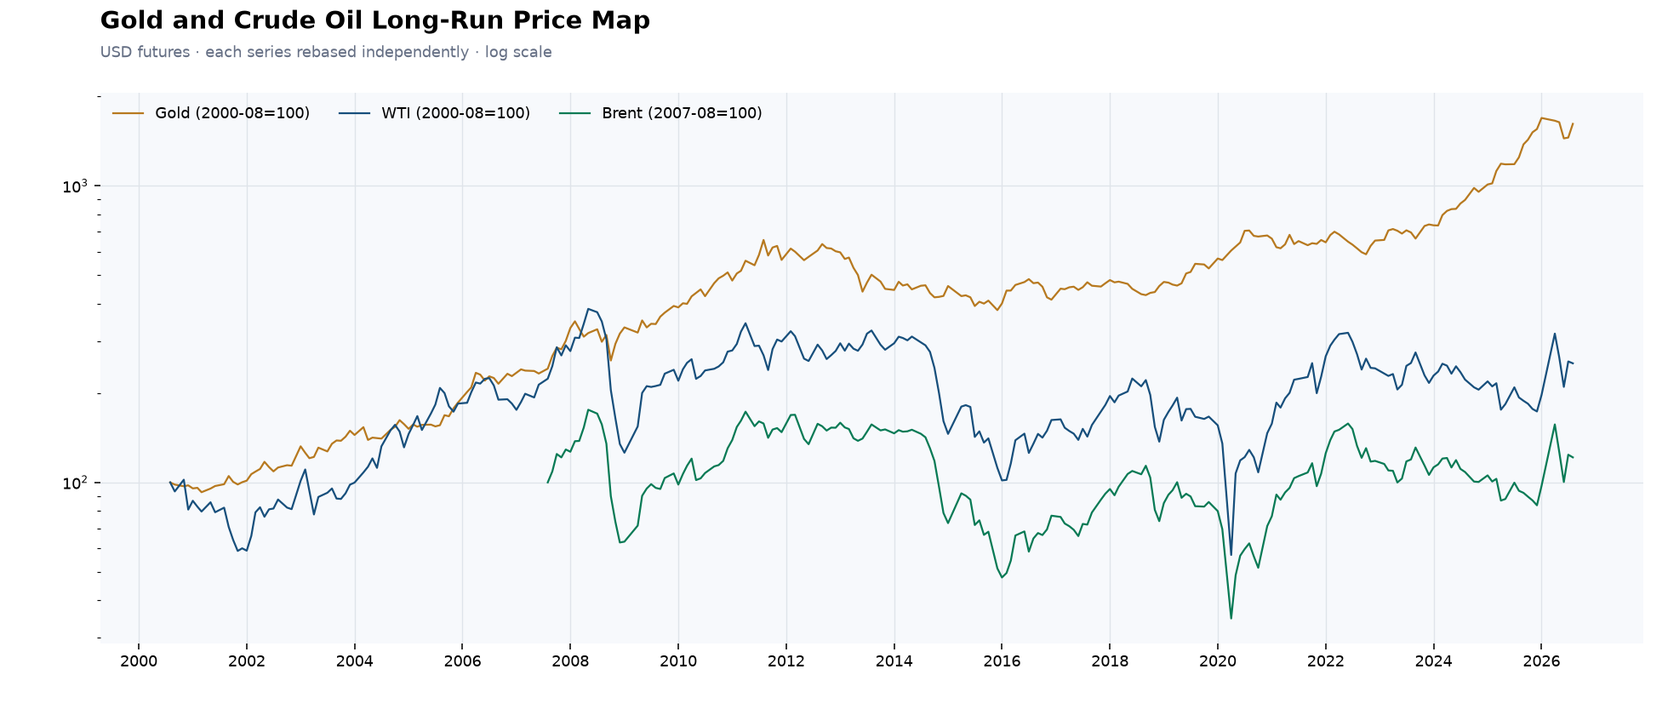
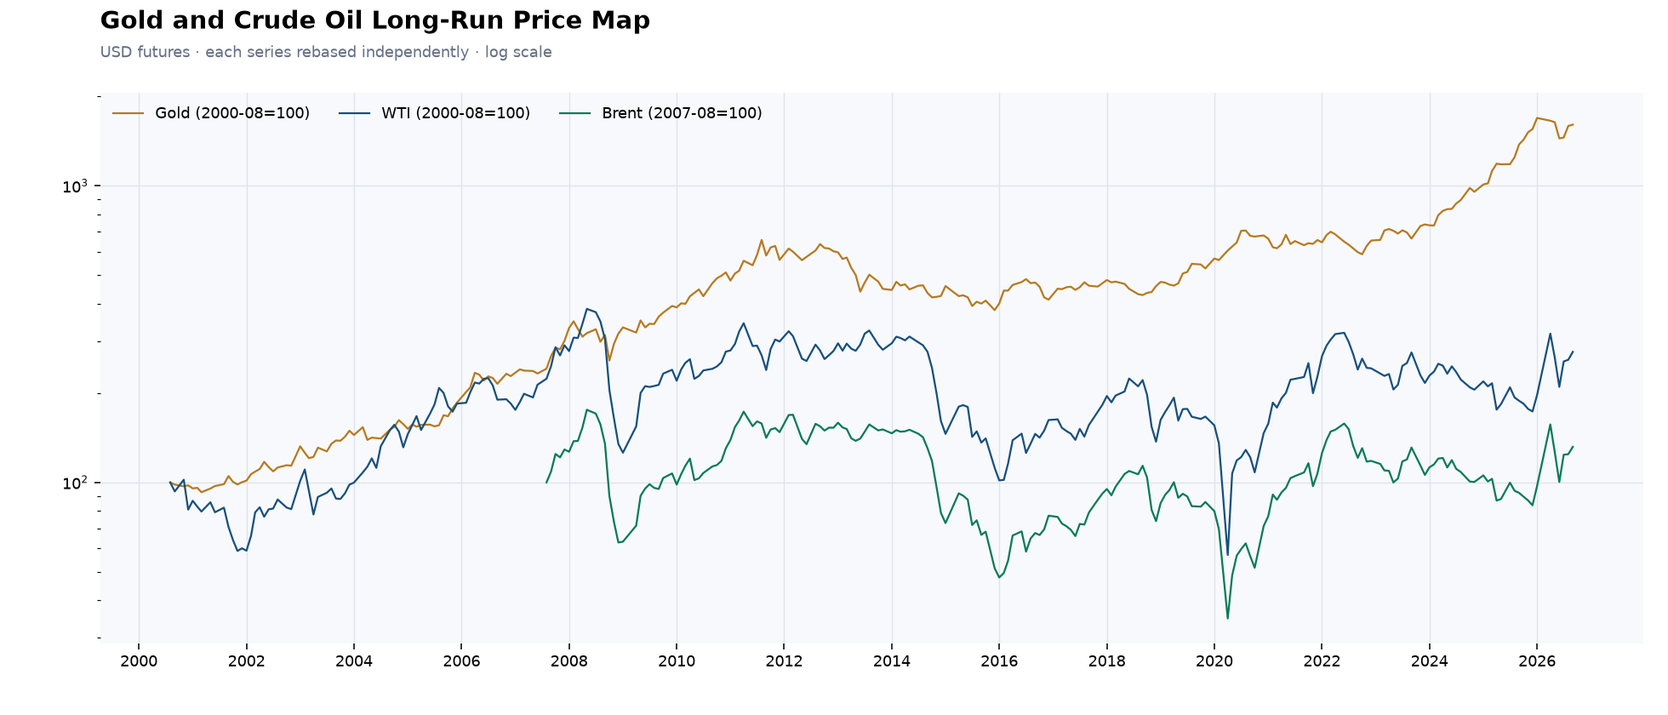
data: update long-run market history

diff --git a/market-history/blogger-page.html b/market-history/blogger-page.html
@@ -1,3 +1,3 @@
 <style>
 .mmp-history{max-width:1120px;margin:0 auto;color:#142033;font-family:Arial,'Noto Sans KR',sans-serif;line-height:1.7}.mmp-history *{box-sizing:border-box}.mmp-history-header{padding:32px;background:linear-gradient(135deg,#081a31,#12375f);color:#fff;border-radius:12px}.mmp-history-header h1{margin:4px 0;font-size:30px}.mmp-history-header p{margin:6px 0;color:#d6e2ef}.mmp-history-note{margin:18px 0;padding:16px 18px;border-left:4px solid #2d6da3;background:#f4f7fa}.mmp-history-metrics{display:grid;grid-template-columns:repeat(4,minmax(0,1fr));gap:10px;margin:20px 0}.mmp-history-metric{padding:14px 16px;border:1px solid #dfe4ea;border-radius:8px;background:#fff}.mmp-history-metric small{display:block;color:#667085}.mmp-history-metric strong{display:block;margin-top:3px;font-size:20px;color:#0b1f3a}.mmp-history figure{margin:24px 0}.mmp-history img{display:block;width:100%;height:auto;border:1px solid #dfe4ea;border-radius:8px}.mmp-history figcaption{margin-top:7px;color:#667085;font-size:12px}.mmp-history-term{display:block;margin-top:4px;color:#344054}.mmp-history h2{margin-top:34px;padding-bottom:8px;border-bottom:2px solid #0b1f3a;color:#0b1f3a}.mmp-history table{width:100%;border-collapse:collapse;font-size:13px}.mmp-history th{padding:9px;background:#0b1f3a;color:#fff;text-align:left}.mmp-history td{padding:9px;border-bottom:1px solid #dfe4ea}.mmp-history a{color:#145da0}.mmp-history-small{color:#667085;font-size:12px}@media(max-width:600px){.mmp-history-header{padding:22px}.mmp-history-header h1{font-size:24px}.mmp-history-metrics{grid-template-columns:repeat(2,minmax(0,1fr))}.mmp-history table{font-size:11px}}
-</style><article class="mmp-history"><header class="mmp-history-header"><small>MARKET HISTORY MAP</small><h1>장기 시장 지도</h1><p>오늘의 시장을 1871년 이후 미국 주식시장 역사 속에서 봅니다.</p></header><div class="mmp-history-note"><strong>읽는 법</strong><br>장기 가격 차트는 로그 척도입니다. 가격지수이므로 배당을 포함하지 않으며, 1957년 이전 구간은 현재 공식 S&amp;P 500이 아니라 Shiller의 장기 S&amp;P Composite 계열 자료입니다. 가장 최근 월은 월초 가격 또는 추정 CPI가 포함된 잠정치일 수 있습니다.</div><h2>한국 시장 지도</h2><div class="mmp-history-metrics"><div class="mmp-history-metric"><small>최근 KOSPI</small><strong>6,788.88</strong></div><div class="mmp-history-metric"><small>최근 KOSDAQ</small><strong>838.41</strong></div><div class="mmp-history-metric"><small>최근 원/달러</small><strong>₩1,375.67</strong></div><div class="mmp-history-metric"><small>최근 관측월</small><strong>2026-08</strong></div></div><figure><img src="https://raw.githubusercontent.com/kegor2-design/market-morning-reports/main/market-history/charts/korea-market-indices-fx.png?v=202608282220340000" alt="KOSPI KOSDAQ 원달러 환율 장기 월간 차트"><figcaption>KOSPI와 KOSDAQ은 각 계열의 시작월을 100으로 환산했습니다.<span class="mmp-history-term"><strong>용어:</strong> USD/KRW는 1달러에 필요한 원화입니다. 상승하면 원화 약세입니다.</span></figcaption></figure><figure><img src="https://raw.githubusercontent.com/kegor2-design/market-morning-reports/main/market-history/charts/korea-market-drawdown.png?v=202608282220340000" alt="KOSPI KOSDAQ 월간 고점 대비 낙폭 차트"><figcaption>각 지수의 이전 월간 고점 대비 하락률입니다.<span class="mmp-history-term"><strong>용어:</strong> Drawdown은 직전 고점에서 얼마나 하락했는지를 뜻합니다.</span></figcaption></figure><h2>한국 시장 주요 사건</h2><div style="overflow-x:auto"><table><thead><tr><th>#</th><th>기간</th><th>사건</th><th>출처</th></tr></thead><tbody><tr><td>1</td><td>1997-11-21 ~ 1998-12-31</td><td>외환위기와 IMF 구제금융</td><td><a href="https://www.imf.org/en/News/Articles/2015/09/14/01/49/pr9755" target="_blank" rel="noopener noreferrer">근거 자료</a></td></tr><tr><td>2</td><td>2000-03-10 ~ 2001-09-30</td><td>닷컴 버블 붕괴</td><td><a href="https://www.federalreservehistory.org/essays/stock-market-crash-of-2001" target="_blank" rel="noopener noreferrer">근거 자료</a></td></tr><tr><td>3</td><td>2003-03-14</td><td>SK글로벌 분식회계·카드채 불안</td><td><a href="https://www.imf.org/external/pubs/ft/scr/2003/cr03232.pdf" target="_blank" rel="noopener noreferrer">근거 자료</a></td></tr><tr><td>4</td><td>2008-09-15 ~ 2009-03-31</td><td>글로벌 금융위기</td><td><a href="https://www.federalreservehistory.org/essays/lehman-brothers-files-for-bankruptcy" target="_blank" rel="noopener noreferrer">근거 자료</a></td></tr><tr><td>5</td><td>2011-08-05 ~ 2011-10-31</td><td>미국 신용등급 강등·유럽 재정위기</td><td><a href="https://www.gao.gov/products/gao-12-701" target="_blank" rel="noopener noreferrer">근거 자료</a></td></tr><tr><td>6</td><td>2020-02-20 ~ 2020-04-30</td><td>코로나19 팬데믹 충격</td><td><a href="https://www.who.int/director-general/speeches/detail/who-director-general-s-opening-remarks-at-the-media-briefing-on-covid-19---11-march-2020" target="_blank" rel="noopener noreferrer">근거 자료</a></td></tr><tr><td>7</td><td>2022-02-24 ~ 2022-10-31</td><td>러시아의 우크라이나 침공·글로벌 긴축</td><td><a href="https://www.un.org/press/en/2022/ga12407.doc.htm" target="_blank" rel="noopener noreferrer">근거 자료</a></td></tr><tr><td>8</td><td>2024-12-03 ~ 2025-04-04</td><td>비상계엄 선포 이후 정치 불확실성</td><td><a href="https://www.reuters.com/world/asia-pacific/south-koreas-president-yoon-declares-martial-law-2024-12-03/" target="_blank" rel="noopener noreferrer">근거 자료</a></td></tr></tbody></table></div><p class="mmp-history-small">국내 시장 자료 출처: <a href="https://finance.yahoo.com/" target="_blank" rel="noopener noreferrer">Yahoo Finance chart</a>. 최신 월 값은 진행 중인 월의 잠정값일 수 있습니다.</p><h2>물가·원자재 지도</h2><div class="mmp-history-metrics"><div class="mmp-history-metric"><small>금 선물</small><strong>$4,504.10</strong></div><div class="mmp-history-metric"><small>WTI 선물</small><strong>$83.44</strong></div><div class="mmp-history-metric"><small>한국 CPI 전년비</small><strong>+2.79%</strong></div><div class="mmp-history-metric"><small>미국 CPI 전년비</small><strong>+3.54%</strong></div></div><figure><img src="https://raw.githubusercontent.com/kegor2-design/market-morning-reports/main/market-history/charts/macro-gold-oil.png?v=202608282220340000" alt="금 WTI 브렌트유 장기 가격 차트"><figcaption>각 계열 시작월=100의 장기 변화율입니다.<span class="mmp-history-term"><strong>용어:</strong> WTI는 미국 원유, Brent는 국제 원유의 대표 가격입니다.</span></figcaption></figure><figure><img src="https://raw.githubusercontent.com/kegor2-design/market-morning-reports/main/market-history/charts/macro-korea-us-cpi.png?v=202608282220340000" alt="한국 미국 소비자물가 전년동월비 차트"><figcaption>월간 CPI의 전년동월비입니다.<span class="mmp-history-term"><strong>용어:</strong> CPI는 소비자가 구매하는 상품·서비스 가격의 평균 변화입니다.</span></figcaption></figure><h2>한국 국고채와 한미 금리차</h2><div class="mmp-history-metrics"><div class="mmp-history-metric"><small>국고채 3년</small><strong>3.788%</strong></div><div class="mmp-history-metric"><small>국고채 10년</small><strong>4.284%</strong></div><div class="mmp-history-metric"><small>국고채 30년</small><strong>4.524%</strong></div><div class="mmp-history-metric"><small>한미 10년 금리차</small><strong>-0.386%p</strong></div></div><figure><img src="https://raw.githubusercontent.com/kegor2-design/market-morning-reports/main/market-history/charts/macro-government-bond-yields.png?v=202608282220340000" alt="한국 국고채 만기별 금리와 한미 금리차 차트"><figcaption>한국 3·10·30년과 미국 10·30년 금리입니다.<span class="mmp-history-term"><strong>용어:</strong> 한미 금리차가 음수면 한국 10년물 금리가 미국보다 낮다는 뜻입니다.</span></figcaption></figure><h2>통화량·기준금리·신용여건</h2><figure><img src="https://raw.githubusercontent.com/kegor2-design/market-morning-reports/main/market-history/charts/macro-money-policy-credit.png?v=202608282220340000" alt="한미 M2 증가율과 한국 기준금리 시장금리 회사채 금리"><figcaption>한미 M2 증가율과 한국의 정책·시장금리입니다.<span class="mmp-history-term"><strong>용어:</strong> M2는 시중 통화량, 회사채-국고채 금리차는 기업 신용위험을 나타냅니다.</span></figcaption></figure><h2>원화 환율과 대외 완충력</h2><div class="mmp-history-metrics"><div class="mmp-history-metric"><small>원/달러</small><strong>₩1,441.10</strong></div><div class="mmp-history-metric"><small>원/100엔</small><strong>₩902.13</strong></div><div class="mmp-history-metric"><small>원/유로</small><strong>₩1,661.16</strong></div><div class="mmp-history-metric"><small>원/위안</small><strong>₩213.56</strong></div><div class="mmp-history-metric"><small>실질실효환율</small><strong>85.50</strong></div></div><figure><img src="https://raw.githubusercontent.com/kegor2-design/market-morning-reports/main/market-history/charts/macro-korea-fx-buffer.png?v=202608282220340000" alt="원달러 원엔 원유로 원위안 실질실효환율 외환보유액"><figcaption><strong>회색선이 원/달러(KRW per USD)</strong>입니다. 위쪽은 시작월=100 환율, 아래쪽은 원화의 실질가치와 외환보유액입니다.<span class="mmp-history-term"><strong>용어:</strong> 환율선 상승은 원화 약세, REER 상승은 물가까지 고려한 원화 강세를 뜻합니다.</span></figcaption></figure><h2>주택가격과 국고채 발행</h2><figure><img src="https://raw.githubusercontent.com/kegor2-design/market-morning-reports/main/market-history/charts/macro-korea-housing-issuance.png?v=202608282220340000" alt="서울 전국 주택가격과 국고채 월간 발행액"><figcaption>서울·전국 주택가격과 월별 국고채 발행액입니다.<span class="mmp-history-term"><strong>용어:</strong> 국고채 발행 증가는 정부의 시장 자금 조달 확대를 의미합니다.</span></figcaption></figure><h2>주요국 정부부채</h2><figure><img src="https://raw.githubusercontent.com/kegor2-design/market-morning-reports/main/market-history/charts/macro-major-country-debt.png?v=202608282220340000" alt="주요국 일반정부 총부채 GDP 대비 비율"><figcaption>IMF 기준 일반정부 총부채/GDP입니다. 2024년 한국 49.7%, 미국 122.3%, 일본 214.5%.<span class="mmp-history-term"><strong>용어:</strong> GDP 대비 부채는 경제 규모와 비교한 정부부채 비율입니다.</span></figcaption></figure><p class="mmp-history-small">출처: 한국 CPI·국고채는 <a href="https://ecos.bok.or.kr/" target="_blank" rel="noopener noreferrer">한국은행 ECOS</a>, 미국 CPI·국채는 <a href="https://fred.stlouisfed.org/" target="_blank" rel="noopener noreferrer">FRED</a>, 국가부채는 <a href="https://www.imf.org/external/datamapper/GGXWDG_NGDP@WEO/" target="_blank" rel="noopener noreferrer">IMF WEO</a>입니다.</p><h2>미국 시장 지도</h2><div class="mmp-history-metrics"><div class="mmp-history-metric"><small>최근 CAPE</small><strong>41.18</strong></div><div class="mmp-history-metric"><small>CAPE 이익수익률</small><strong>2.43%</strong></div><div class="mmp-history-metric"><small>미국 10년물</small><strong>4.75%</strong></div><div class="mmp-history-metric"><small>Excess CAPE Yield</small><strong>0.97%</strong></div></div><figure><img src="https://raw.githubusercontent.com/kegor2-design/market-morning-reports/main/market-history/charts/us-stock-market-long-run.png?v=202608282220340000" alt="1871년 이후 미국 주식시장 장기 월간 로그 차트"><figcaption>붉은 음영과 선은 주요 역사 사건입니다. 모바일에서는 이미지를 눌러 확대할 수 있습니다.<span class="mmp-history-term"><strong>용어:</strong> 로그 척도는 같은 비율의 상승·하락을 같은 간격으로 보여줍니다.</span></figcaption></figure><figure><img src="https://raw.githubusercontent.com/kegor2-design/market-morning-reports/main/market-history/charts/us-stock-market-drawdown.png?v=202608282220340000" alt="미국 주식시장 월간 고점 대비 낙폭 차트"><figcaption>각 시점의 이전 월간 고점 대비 하락률입니다.<span class="mmp-history-term"><strong>용어:</strong> Drawdown은 직전 고점에서 얼마나 하락했는지를 뜻합니다.</span></figcaption></figure><h2>물가·배당을 반영한 장기 성과</h2><figure><img src="https://raw.githubusercontent.com/kegor2-design/market-morning-reports/main/market-history/charts/us-stock-market-real-total-return.png?v=202608282220340000" alt="명목 가격, 실질 가격, 배당 재투자 실질 총수익 비교 차트"><figcaption>세 계열을 1871년 1월=100으로 환산했습니다. 실질 총수익은 물가와 배당 재투자를 함께 반영합니다.<span class="mmp-history-term"><strong>용어:</strong> 명목은 표시 가격, 실질은 물가 제거, 총수익은 배당 재투자 포함입니다.</span></figcaption></figure><h2>밸류에이션과 금리</h2><figure><img src="https://raw.githubusercontent.com/kegor2-design/market-morning-reports/main/market-history/charts/us-stock-market-cape-yields.png?v=202608282220340000" alt="CAPE와 이익수익률, 미국 10년물 금리 비교 차트"><figcaption>CAPE 이익수익률은 1/CAPE이며, Excess CAPE Yield는 Shiller가 산출한 인플레이션 조정 장기금리 대비 초과수익률 지표입니다.<span class="mmp-history-term"><strong>용어:</strong> CAPE는 최근 10년의 물가조정 평균이익으로 계산한 주가수익비율입니다.</span></figcaption></figure><h2>주식과 채권의 이후 10년 실질수익률</h2><figure><img src="https://raw.githubusercontent.com/kegor2-design/market-morning-reports/main/market-history/charts/us-stock-vs-bond-real-returns.png?v=202608282220340000" alt="관측 시점 이후 10년간 주식과 채권의 연율화 실질수익률 차트"><figcaption>각 관측월에 투자했다고 가정한 이후 10년 연율화 실질수익률입니다. 미래 10년이 완성돼야 계산되므로 현재 공개값은 2016년까지입니다.<span class="mmp-history-term"><strong>용어:</strong> 연율화 수익률은 여러 해의 성과를 연평균 복리 수익률로 환산한 값입니다.</span></figcaption></figure><h2>주요 사건</h2><div style="overflow-x:auto"><table><thead><tr><th>#</th><th>기간</th><th>사건</th><th>출처</th></tr></thead><tbody><tr><td>1</td><td>1929-08-01 ~ 1933-03-31</td><td>대공황</td><td><a href="https://www.federalreservehistory.org/essays/great-depression" target="_blank" rel="noopener noreferrer">근거 자료</a></td></tr><tr><td>2</td><td>1973-10-01 ~ 1974-03-31</td><td>1차 오일쇼크</td><td><a href="https://www.federalreservehistory.org/essays/oil-shock-of-1973-74" target="_blank" rel="noopener noreferrer">근거 자료</a></td></tr><tr><td>3</td><td>1987-10-19</td><td>블랙먼데이</td><td><a href="https://www.federalreservehistory.org/essays/stock-market-crash-of-1987" target="_blank" rel="noopener noreferrer">근거 자료</a></td></tr><tr><td>4</td><td>2000-03-10 ~ 2002-10-09</td><td>닷컴 버블 붕괴</td><td><a href="https://www.federalreservehistory.org/essays/stock-market-bubble-of-1990s" target="_blank" rel="noopener noreferrer">근거 자료</a></td></tr><tr><td>5</td><td>2007-10-09 ~ 2009-03-09</td><td>글로벌 금융위기</td><td><a href="https://www.federalreservehistory.org/essays/great-recession-and-its-aftermath" target="_blank" rel="noopener noreferrer">근거 자료</a></td></tr><tr><td>6</td><td>2008-09-15</td><td>리먼브러더스 파산</td><td><a href="https://www.federalreservehistory.org/essays/lehman-brothers-files-for-bankruptcy" target="_blank" rel="noopener noreferrer">근거 자료</a></td></tr><tr><td>7</td><td>2020-02-19 ~ 2020-03-23</td><td>코로나19 시장 충격</td><td><a href="https://www.federalreserve.gov/monetarypolicy/fomccalendars.htm" target="_blank" rel="noopener noreferrer">근거 자료</a></td></tr><tr><td>8</td><td>2022-03-16 ~ 2023-07-26</td><td>인플레이션과 연준 긴축</td><td><a href="https://www.federalreserve.gov/monetarypolicy/openmarket.htm" target="_blank" rel="noopener noreferrer">근거 자료</a></td></tr></tbody></table></div><h2>데이터 상태</h2><p>최근 관측월: <strong>2026-08-01</strong> · 최근 가격값: <strong>7,600.50</strong> · 고점 대비: <strong>+0.00%</strong></p><p class="mmp-history-small">생성 시각: 2026-08-28T22:20:34+00:00 · 출처: <a href="https://www.shillerdata.com/" target="_blank" rel="noopener noreferrer">Robert J. Shiller data</a>. 이 자료는 역사적 비교와 연구를 위한 것이며 투자 권유가 아닙니다.</p></article>
+</style><article class="mmp-history"><header class="mmp-history-header"><small>MARKET HISTORY MAP</small><h1>장기 시장 지도</h1><p>오늘의 시장을 1871년 이후 미국 주식시장 역사 속에서 봅니다.</p></header><div class="mmp-history-note"><strong>읽는 법</strong><br>장기 가격 차트는 로그 척도입니다. 가격지수이므로 배당을 포함하지 않으며, 1957년 이전 구간은 현재 공식 S&amp;P 500이 아니라 Shiller의 장기 S&amp;P Composite 계열 자료입니다. 가장 최근 월은 월초 가격 또는 추정 CPI가 포함된 잠정치일 수 있습니다.</div><h2>한국 시장 지도</h2><div class="mmp-history-metrics"><div class="mmp-history-metric"><small>최근 KOSPI</small><strong>6,687.21</strong></div><div class="mmp-history-metric"><small>최근 KOSDAQ</small><strong>813.50</strong></div><div class="mmp-history-metric"><small>최근 원/달러</small><strong>₩1,345.99</strong></div><div class="mmp-history-metric"><small>최근 관측월</small><strong>2026-09</strong></div></div><figure><img src="https://raw.githubusercontent.com/kegor2-design/market-morning-reports/main/market-history/charts/korea-market-indices-fx.png?v=202609042221190000" alt="KOSPI KOSDAQ 원달러 환율 장기 월간 차트"><figcaption>KOSPI와 KOSDAQ은 각 계열의 시작월을 100으로 환산했습니다.<span class="mmp-history-term"><strong>용어:</strong> USD/KRW는 1달러에 필요한 원화입니다. 상승하면 원화 약세입니다.</span></figcaption></figure><figure><img src="https://raw.githubusercontent.com/kegor2-design/market-morning-reports/main/market-history/charts/korea-market-drawdown.png?v=202609042221190000" alt="KOSPI KOSDAQ 월간 고점 대비 낙폭 차트"><figcaption>각 지수의 이전 월간 고점 대비 하락률입니다.<span class="mmp-history-term"><strong>용어:</strong> Drawdown은 직전 고점에서 얼마나 하락했는지를 뜻합니다.</span></figcaption></figure><h2>한국 시장 주요 사건</h2><div style="overflow-x:auto"><table><thead><tr><th>#</th><th>기간</th><th>사건</th><th>출처</th></tr></thead><tbody><tr><td>1</td><td>1997-11-21 ~ 1998-12-31</td><td>외환위기와 IMF 구제금융</td><td><a href="https://www.imf.org/en/News/Articles/2015/09/14/01/49/pr9755" target="_blank" rel="noopener noreferrer">근거 자료</a></td></tr><tr><td>2</td><td>2000-03-10 ~ 2001-09-30</td><td>닷컴 버블 붕괴</td><td><a href="https://www.federalreservehistory.org/essays/stock-market-crash-of-2001" target="_blank" rel="noopener noreferrer">근거 자료</a></td></tr><tr><td>3</td><td>2003-03-14</td><td>SK글로벌 분식회계·카드채 불안</td><td><a href="https://www.imf.org/external/pubs/ft/scr/2003/cr03232.pdf" target="_blank" rel="noopener noreferrer">근거 자료</a></td></tr><tr><td>4</td><td>2008-09-15 ~ 2009-03-31</td><td>글로벌 금융위기</td><td><a href="https://www.federalreservehistory.org/essays/lehman-brothers-files-for-bankruptcy" target="_blank" rel="noopener noreferrer">근거 자료</a></td></tr><tr><td>5</td><td>2011-08-05 ~ 2011-10-31</td><td>미국 신용등급 강등·유럽 재정위기</td><td><a href="https://www.gao.gov/products/gao-12-701" target="_blank" rel="noopener noreferrer">근거 자료</a></td></tr><tr><td>6</td><td>2020-02-20 ~ 2020-04-30</td><td>코로나19 팬데믹 충격</td><td><a href="https://www.who.int/director-general/speeches/detail/who-director-general-s-opening-remarks-at-the-media-briefing-on-covid-19---11-march-2020" target="_blank" rel="noopener noreferrer">근거 자료</a></td></tr><tr><td>7</td><td>2022-02-24 ~ 2022-10-31</td><td>러시아의 우크라이나 침공·글로벌 긴축</td><td><a href="https://www.un.org/press/en/2022/ga12407.doc.htm" target="_blank" rel="noopener noreferrer">근거 자료</a></td></tr><tr><td>8</td><td>2024-12-03 ~ 2025-04-04</td><td>비상계엄 선포 이후 정치 불확실성</td><td><a href="https://www.reuters.com/world/asia-pacific/south-koreas-president-yoon-declares-martial-law-2024-12-03/" target="_blank" rel="noopener noreferrer">근거 자료</a></td></tr></tbody></table></div><p class="mmp-history-small">국내 시장 자료 출처: <a href="https://finance.yahoo.com/" target="_blank" rel="noopener noreferrer">Yahoo Finance chart</a>. 최신 월 값은 진행 중인 월의 잠정값일 수 있습니다.</p><h2>물가·원자재 지도</h2><div class="mmp-history-metrics"><div class="mmp-history-metric"><small>금 선물</small><strong>$4,477.20</strong></div><div class="mmp-history-metric"><small>WTI 선물</small><strong>$91.22</strong></div><div class="mmp-history-metric"><small>한국 CPI 전년비</small><strong>+3.09%</strong></div><div class="mmp-history-metric"><small>미국 CPI 전년비</small><strong>+3.54%</strong></div></div><figure><img src="https://raw.githubusercontent.com/kegor2-design/market-morning-reports/main/market-history/charts/macro-gold-oil.png?v=202609042221190000" alt="금 WTI 브렌트유 장기 가격 차트"><figcaption>각 계열 시작월=100의 장기 변화율입니다.<span class="mmp-history-term"><strong>용어:</strong> WTI는 미국 원유, Brent는 국제 원유의 대표 가격입니다.</span></figcaption></figure><figure><img src="https://raw.githubusercontent.com/kegor2-design/market-morning-reports/main/market-history/charts/macro-korea-us-cpi.png?v=202609042221190000" alt="한국 미국 소비자물가 전년동월비 차트"><figcaption>월간 CPI의 전년동월비입니다.<span class="mmp-history-term"><strong>용어:</strong> CPI는 소비자가 구매하는 상품·서비스 가격의 평균 변화입니다.</span></figcaption></figure><h2>한국 국고채와 한미 금리차</h2><div class="mmp-history-metrics"><div class="mmp-history-metric"><small>국고채 3년</small><strong>3.884%</strong></div><div class="mmp-history-metric"><small>국고채 10년</small><strong>4.360%</strong></div><div class="mmp-history-metric"><small>국고채 30년</small><strong>4.636%</strong></div><div class="mmp-history-metric"><small>한미 10년 금리차</small><strong>-0.410%p</strong></div></div><figure><img src="https://raw.githubusercontent.com/kegor2-design/market-morning-reports/main/market-history/charts/macro-government-bond-yields.png?v=202609042221190000" alt="한국 국고채 만기별 금리와 한미 금리차 차트"><figcaption>한국 3·10·30년과 미국 10·30년 금리입니다.<span class="mmp-history-term"><strong>용어:</strong> 한미 금리차가 음수면 한국 10년물 금리가 미국보다 낮다는 뜻입니다.</span></figcaption></figure><h2>통화량·기준금리·신용여건</h2><figure><img src="https://raw.githubusercontent.com/kegor2-design/market-morning-reports/main/market-history/charts/macro-money-policy-credit.png?v=202609042221190000" alt="한미 M2 증가율과 한국 기준금리 시장금리 회사채 금리"><figcaption>한미 M2 증가율과 한국의 정책·시장금리입니다.<span class="mmp-history-term"><strong>용어:</strong> M2는 시중 통화량, 회사채-국고채 금리차는 기업 신용위험을 나타냅니다.</span></figcaption></figure><h2>원화 환율과 대외 완충력</h2><div class="mmp-history-metrics"><div class="mmp-history-metric"><small>원/달러</small><strong>₩1,376.50</strong></div><div class="mmp-history-metric"><small>원/100엔</small><strong>₩859.27</strong></div><div class="mmp-history-metric"><small>원/유로</small><strong>₩1,594.47</strong></div><div class="mmp-history-metric"><small>원/위안</small><strong>₩205.05</strong></div><div class="mmp-history-metric"><small>실질실효환율</small><strong>85.50</strong></div></div><figure><img src="https://raw.githubusercontent.com/kegor2-design/market-morning-reports/main/market-history/charts/macro-korea-fx-buffer.png?v=202609042221190000" alt="원달러 원엔 원유로 원위안 실질실효환율 외환보유액"><figcaption><strong>회색선이 원/달러(KRW per USD)</strong>입니다. 위쪽은 시작월=100 환율, 아래쪽은 원화의 실질가치와 외환보유액입니다.<span class="mmp-history-term"><strong>용어:</strong> 환율선 상승은 원화 약세, REER 상승은 물가까지 고려한 원화 강세를 뜻합니다.</span></figcaption></figure><h2>주택가격과 국고채 발행</h2><figure><img src="https://raw.githubusercontent.com/kegor2-design/market-morning-reports/main/market-history/charts/macro-korea-housing-issuance.png?v=202609042221190000" alt="서울 전국 주택가격과 국고채 월간 발행액"><figcaption>서울·전국 주택가격과 월별 국고채 발행액입니다.<span class="mmp-history-term"><strong>용어:</strong> 국고채 발행 증가는 정부의 시장 자금 조달 확대를 의미합니다.</span></figcaption></figure><h2>주요국 정부부채</h2><figure><img src="https://raw.githubusercontent.com/kegor2-design/market-morning-reports/main/market-history/charts/macro-major-country-debt.png?v=202609042221190000" alt="주요국 일반정부 총부채 GDP 대비 비율"><figcaption>IMF 기준 일반정부 총부채/GDP입니다. 2024년 한국 49.7%, 미국 122.3%, 일본 214.5%.<span class="mmp-history-term"><strong>용어:</strong> GDP 대비 부채는 경제 규모와 비교한 정부부채 비율입니다.</span></figcaption></figure><p class="mmp-history-small">출처: 한국 CPI·국고채는 <a href="https://ecos.bok.or.kr/" target="_blank" rel="noopener noreferrer">한국은행 ECOS</a>, 미국 CPI·국채는 <a href="https://fred.stlouisfed.org/" target="_blank" rel="noopener noreferrer">FRED</a>, 국가부채는 <a href="https://www.imf.org/external/datamapper/GGXWDG_NGDP@WEO/" target="_blank" rel="noopener noreferrer">IMF WEO</a>입니다.</p><h2>미국 시장 지도</h2><div class="mmp-history-metrics"><div class="mmp-history-metric"><small>최근 CAPE</small><strong>41.18</strong></div><div class="mmp-history-metric"><small>CAPE 이익수익률</small><strong>2.43%</strong></div><div class="mmp-history-metric"><small>미국 10년물</small><strong>4.75%</strong></div><div class="mmp-history-metric"><small>Excess CAPE Yield</small><strong>0.97%</strong></div></div><figure><img src="https://raw.githubusercontent.com/kegor2-design/market-morning-reports/main/market-history/charts/us-stock-market-long-run.png?v=202609042221190000" alt="1871년 이후 미국 주식시장 장기 월간 로그 차트"><figcaption>붉은 음영과 선은 주요 역사 사건입니다. 모바일에서는 이미지를 눌러 확대할 수 있습니다.<span class="mmp-history-term"><strong>용어:</strong> 로그 척도는 같은 비율의 상승·하락을 같은 간격으로 보여줍니다.</span></figcaption></figure><figure><img src="https://raw.githubusercontent.com/kegor2-design/market-morning-reports/main/market-history/charts/us-stock-market-drawdown.png?v=202609042221190000" alt="미국 주식시장 월간 고점 대비 낙폭 차트"><figcaption>각 시점의 이전 월간 고점 대비 하락률입니다.<span class="mmp-history-term"><strong>용어:</strong> Drawdown은 직전 고점에서 얼마나 하락했는지를 뜻합니다.</span></figcaption></figure><h2>물가·배당을 반영한 장기 성과</h2><figure><img src="https://raw.githubusercontent.com/kegor2-design/market-morning-reports/main/market-history/charts/us-stock-market-real-total-return.png?v=202609042221190000" alt="명목 가격, 실질 가격, 배당 재투자 실질 총수익 비교 차트"><figcaption>세 계열을 1871년 1월=100으로 환산했습니다. 실질 총수익은 물가와 배당 재투자를 함께 반영합니다.<span class="mmp-history-term"><strong>용어:</strong> 명목은 표시 가격, 실질은 물가 제거, 총수익은 배당 재투자 포함입니다.</span></figcaption></figure><h2>밸류에이션과 금리</h2><figure><img src="https://raw.githubusercontent.com/kegor2-design/market-morning-reports/main/market-history/charts/us-stock-market-cape-yields.png?v=202609042221190000" alt="CAPE와 이익수익률, 미국 10년물 금리 비교 차트"><figcaption>CAPE 이익수익률은 1/CAPE이며, Excess CAPE Yield는 Shiller가 산출한 인플레이션 조정 장기금리 대비 초과수익률 지표입니다.<span class="mmp-history-term"><strong>용어:</strong> CAPE는 최근 10년의 물가조정 평균이익으로 계산한 주가수익비율입니다.</span></figcaption></figure><h2>주식과 채권의 이후 10년 실질수익률</h2><figure><img src="https://raw.githubusercontent.com/kegor2-design/market-morning-reports/main/market-history/charts/us-stock-vs-bond-real-returns.png?v=202609042221190000" alt="관측 시점 이후 10년간 주식과 채권의 연율화 실질수익률 차트"><figcaption>각 관측월에 투자했다고 가정한 이후 10년 연율화 실질수익률입니다. 미래 10년이 완성돼야 계산되므로 현재 공개값은 2016년까지입니다.<span class="mmp-history-term"><strong>용어:</strong> 연율화 수익률은 여러 해의 성과를 연평균 복리 수익률로 환산한 값입니다.</span></figcaption></figure><h2>주요 사건</h2><div style="overflow-x:auto"><table><thead><tr><th>#</th><th>기간</th><th>사건</th><th>출처</th></tr></thead><tbody><tr><td>1</td><td>1929-08-01 ~ 1933-03-31</td><td>대공황</td><td><a href="https://www.federalreservehistory.org/essays/great-depression" target="_blank" rel="noopener noreferrer">근거 자료</a></td></tr><tr><td>2</td><td>1973-10-01 ~ 1974-03-31</td><td>1차 오일쇼크</td><td><a href="https://www.federalreservehistory.org/essays/oil-shock-of-1973-74" target="_blank" rel="noopener noreferrer">근거 자료</a></td></tr><tr><td>3</td><td>1987-10-19</td><td>블랙먼데이</td><td><a href="https://www.federalreservehistory.org/essays/stock-market-crash-of-1987" target="_blank" rel="noopener noreferrer">근거 자료</a></td></tr><tr><td>4</td><td>2000-03-10 ~ 2002-10-09</td><td>닷컴 버블 붕괴</td><td><a href="https://www.federalreservehistory.org/essays/stock-market-bubble-of-1990s" target="_blank" rel="noopener noreferrer">근거 자료</a></td></tr><tr><td>5</td><td>2007-10-09 ~ 2009-03-09</td><td>글로벌 금융위기</td><td><a href="https://www.federalreservehistory.org/essays/great-recession-and-its-aftermath" target="_blank" rel="noopener noreferrer">근거 자료</a></td></tr><tr><td>6</td><td>2008-09-15</td><td>리먼브러더스 파산</td><td><a href="https://www.federalreservehistory.org/essays/lehman-brothers-files-for-bankruptcy" target="_blank" rel="noopener noreferrer">근거 자료</a></td></tr><tr><td>7</td><td>2020-02-19 ~ 2020-03-23</td><td>코로나19 시장 충격</td><td><a href="https://www.federalreserve.gov/monetarypolicy/fomccalendars.htm" target="_blank" rel="noopener noreferrer">근거 자료</a></td></tr><tr><td>8</td><td>2022-03-16 ~ 2023-07-26</td><td>인플레이션과 연준 긴축</td><td><a href="https://www.federalreserve.gov/monetarypolicy/openmarket.htm" target="_blank" rel="noopener noreferrer">근거 자료</a></td></tr></tbody></table></div><h2>데이터 상태</h2><p>최근 관측월: <strong>2026-08-01</strong> · 최근 가격값: <strong>7,600.50</strong> · 고점 대비: <strong>+0.00%</strong></p><p class="mmp-history-small">생성 시각: 2026-09-04T22:21:19+00:00 · 출처: <a href="https://www.shillerdata.com/" target="_blank" rel="noopener noreferrer">Robert J. Shiller data</a>. 이 자료는 역사적 비교와 연구를 위한 것이며 투자 권유가 아닙니다.</p></article>
